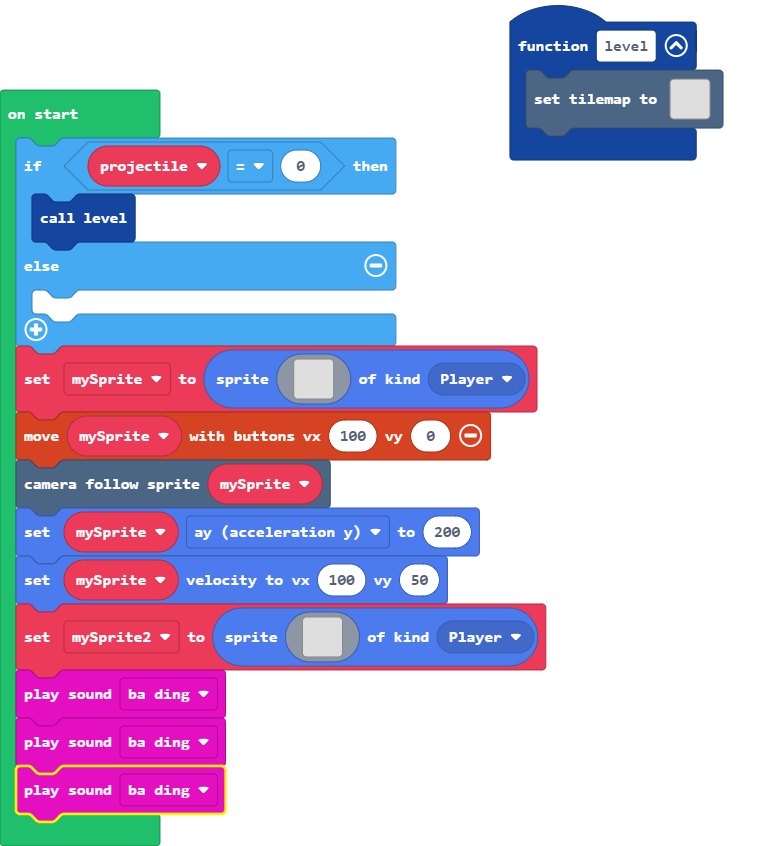
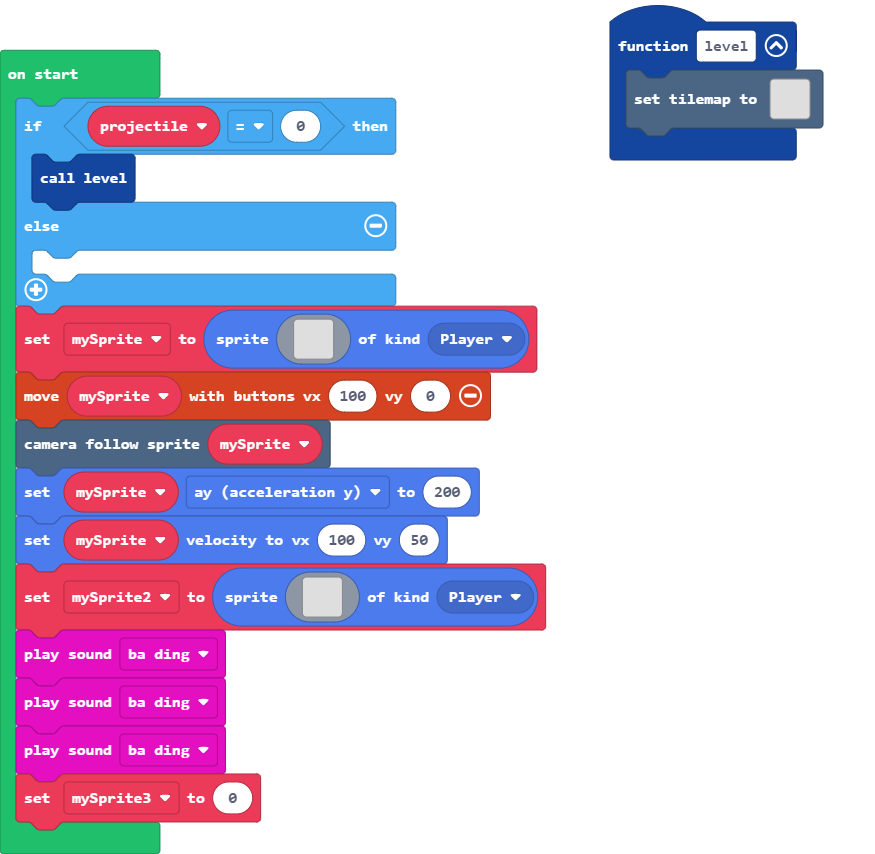
Update main.blocks, main.ts

diff --git a/main.ts b/main.ts
@@ -50,3 +50,4 @@ let mySprite2 = sprites.create(img`
 music.baDing.play()
 music.baDing.play()
 music.baDing.play()
+let mySprite3 = 0
